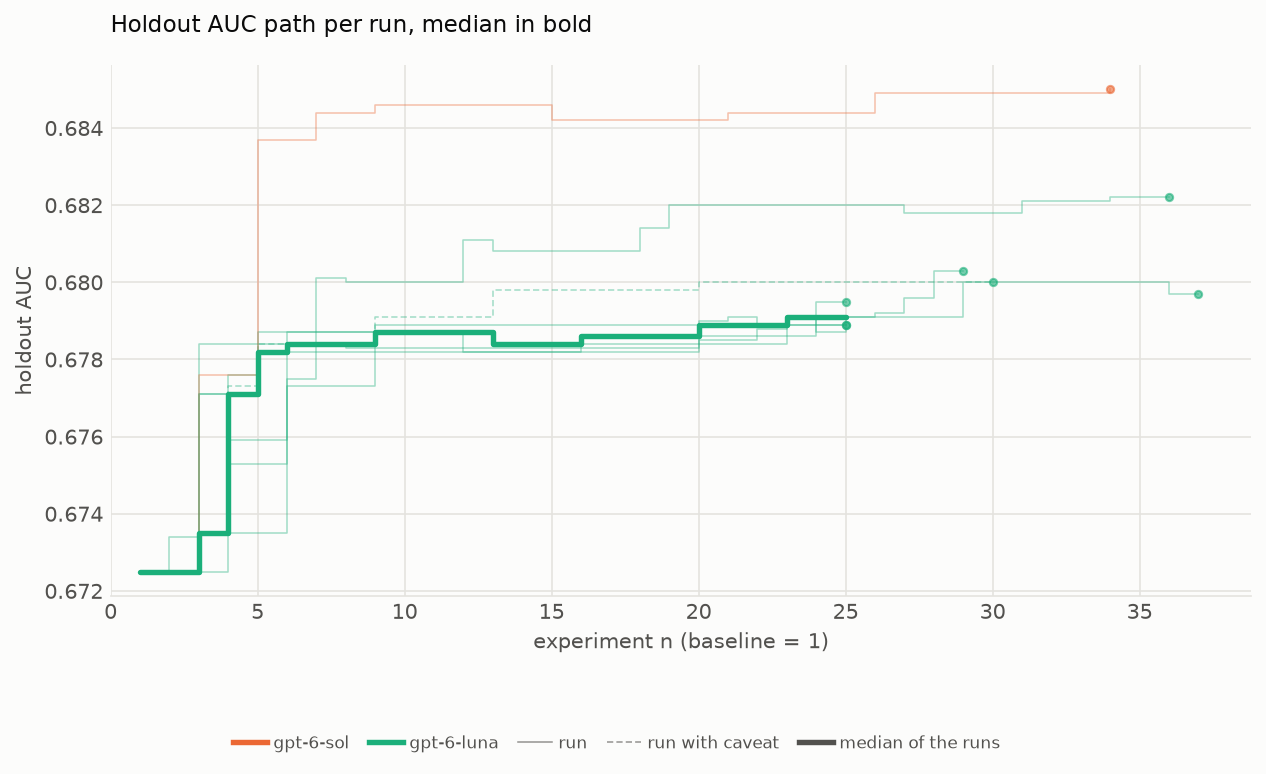
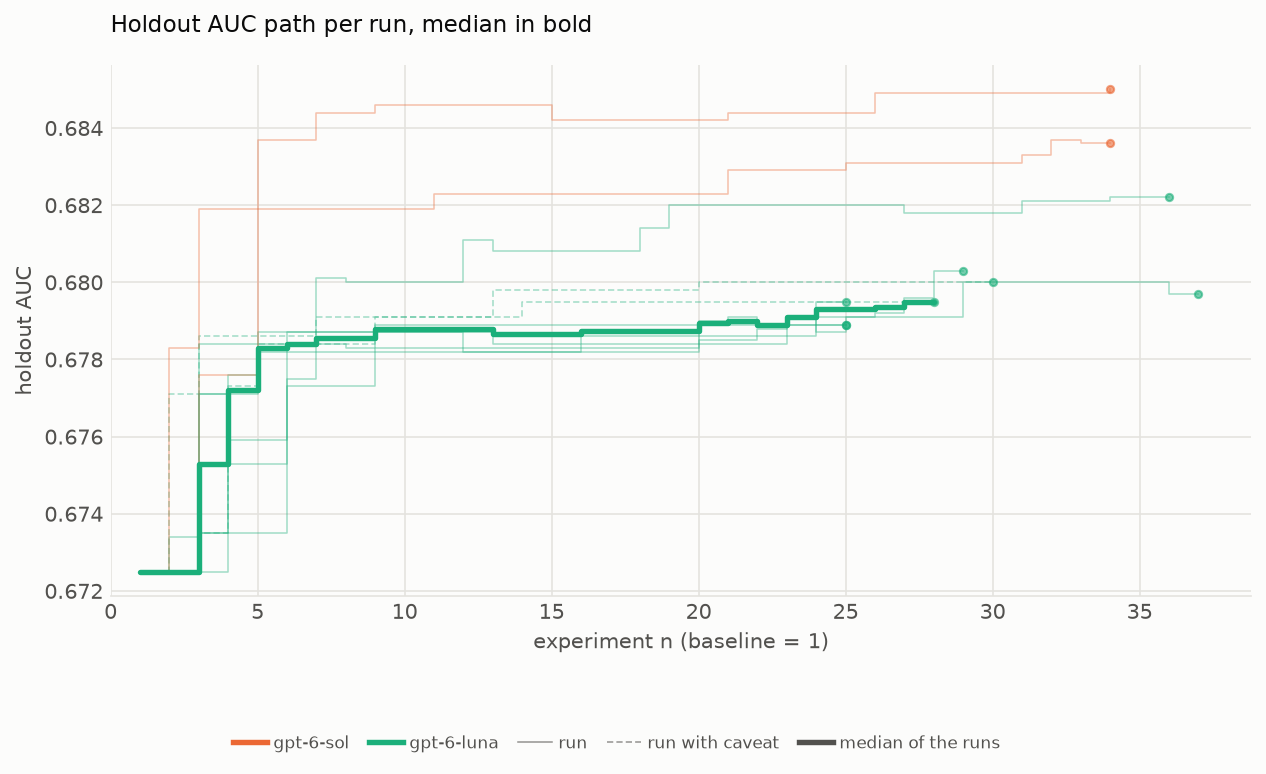
Summary with luna6_n20 runs 1-8 and sol6_n20 runs 1-2
README results block and SUMMARY plots redrawn by /xgb-summary.

diff --git a/README.md b/README.md
@@ -27,10 +27,10 @@ All runs with codex-cli 0.160.0 at effort max, a 24 GB container memory cap and 
 
 | model | groups | valid runs | excluded | holdout AUC mean | sd | min | median | max |
 |---|---|---|---|---|---|---|---|---|
-| gpt-6-sol | [sol6_n20](run-multi/sol6_n20/results_summary.md) | 1 | 0 | 0.6850 | - | 0.6850 | 0.6850 | 0.6850 |
-| gpt-6-luna | [luna6_n20](run-multi/luna6_n20/results_summary.md) | 7 (1 with caveat) | 0 | 0.6799 | 0.0011 | 0.6789 | 0.6797 | 0.6822 |
+| gpt-6-sol | [sol6_n20](run-multi/sol6_n20/results_summary.md) | 2 | 0 | 0.6843 | 0.0010 | 0.6836 | 0.6843 | 0.6850 |
+| gpt-6-luna | [luna6_n20](run-multi/luna6_n20/results_summary.md) | 8 (2 with caveat) | 0 | 0.6799 | 0.0011 | 0.6789 | 0.6796 | 0.6822 |
 
-One run carries a caveat: luna6_n20-6, `keep_rule` (a commit kept at an equal Eval AUC without being simpler or faster). No run was excluded. Both groups are in progress: luna6_n20 with 7 and sol6_n20 with 1 of their 20 runs reviewed so far. luna6_n20-1 and luna6_n20-7 are valid with a `train_py_review` flag, a false match explained in their `run.md`. The test group test1 was moved to `archive/` and is not included. All valid runs have the same settings.
+Two runs carry a caveat, both `keep_rule` (commits kept at an equal Eval AUC without being simpler or faster): luna6_n20-6 and luna6_n20-8. No run was excluded. Both groups are in progress: luna6_n20 with 8 and sol6_n20 with 2 of their 20 runs reviewed so far. luna6_n20-1 and luna6_n20-7 are valid with a `train_py_review` flag, a false match explained in their `run.md`. The test group test1 was moved to `archive/` and is not included. All valid runs have the same settings.
 
 ![Holdout AUC per run](run-multi/SUMMARY/holdout_auc_beeswarm.png)
 <!-- xgb-summary: end -->
